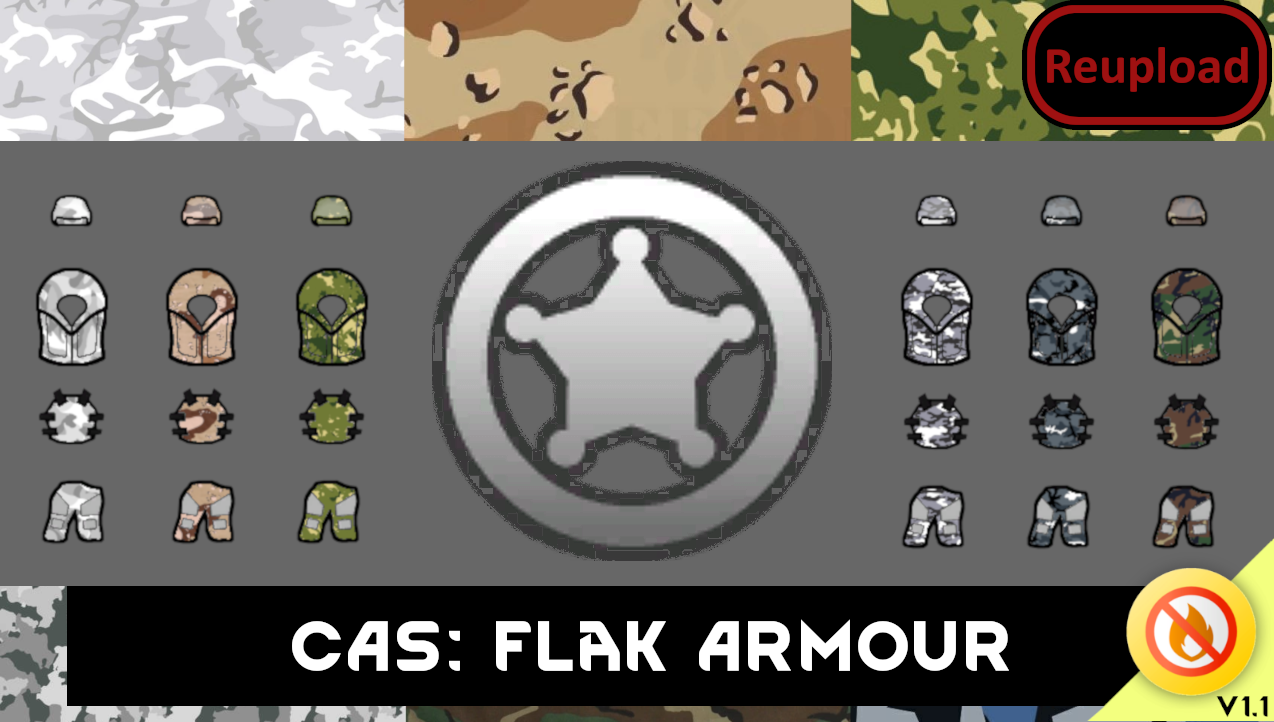
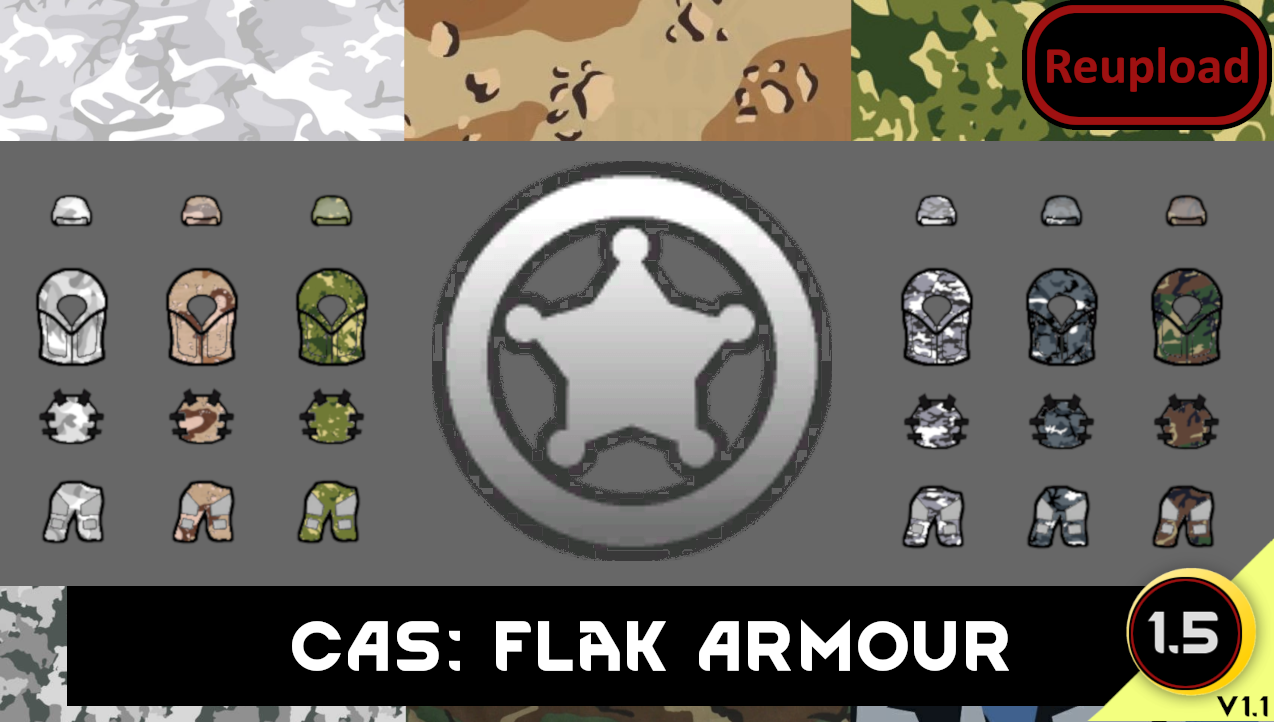
Mod updated for 1.5 and passed autotests

Changed region(s): [[0.8878, 0.7922, 0.9796, 0.9751]]

diff --git a/README.md b/README.md
@@ -44,11 +44,13 @@ Graphical revisions - Oleg Marko
 
 -  See if the the error persists if you just have this mod and its requirements active.
 -  If not, try adding your other mods until it happens again.
--  Post your error-log using https://steamcommunity.com/workshop/filedetails/?id=818773962]HugsLib and command Ctrl+F12
+-  Post your error-log using https://steamcommunity.com/workshop/filedetails/?id=818773962]HugsLib or the standalone https://steamcommunity.com/sharedfiles/filedetails/?id=2873415404]Uploader and command Ctrl+F12
 -  For best support, please use the Discord-channel for error-reporting.
 -  Do not report errors by making a discussion-thread, I get no notification of that.
 -  If you have the solution for a problem, please post it to the GitHub repository.
+-  Use https://github.com/RimSort/RimSort/releases/latest]RimSort to sort your mods
 
 
 
+https://steamcommunity.com/sharedfiles/filedetails/changelog/2196958352]![Image](https://img.shields.io/github/v/release/emipa606/CASFlakArmour?label=latest%20version&style=plastic&color=9f1111&labelColor=black)
 
